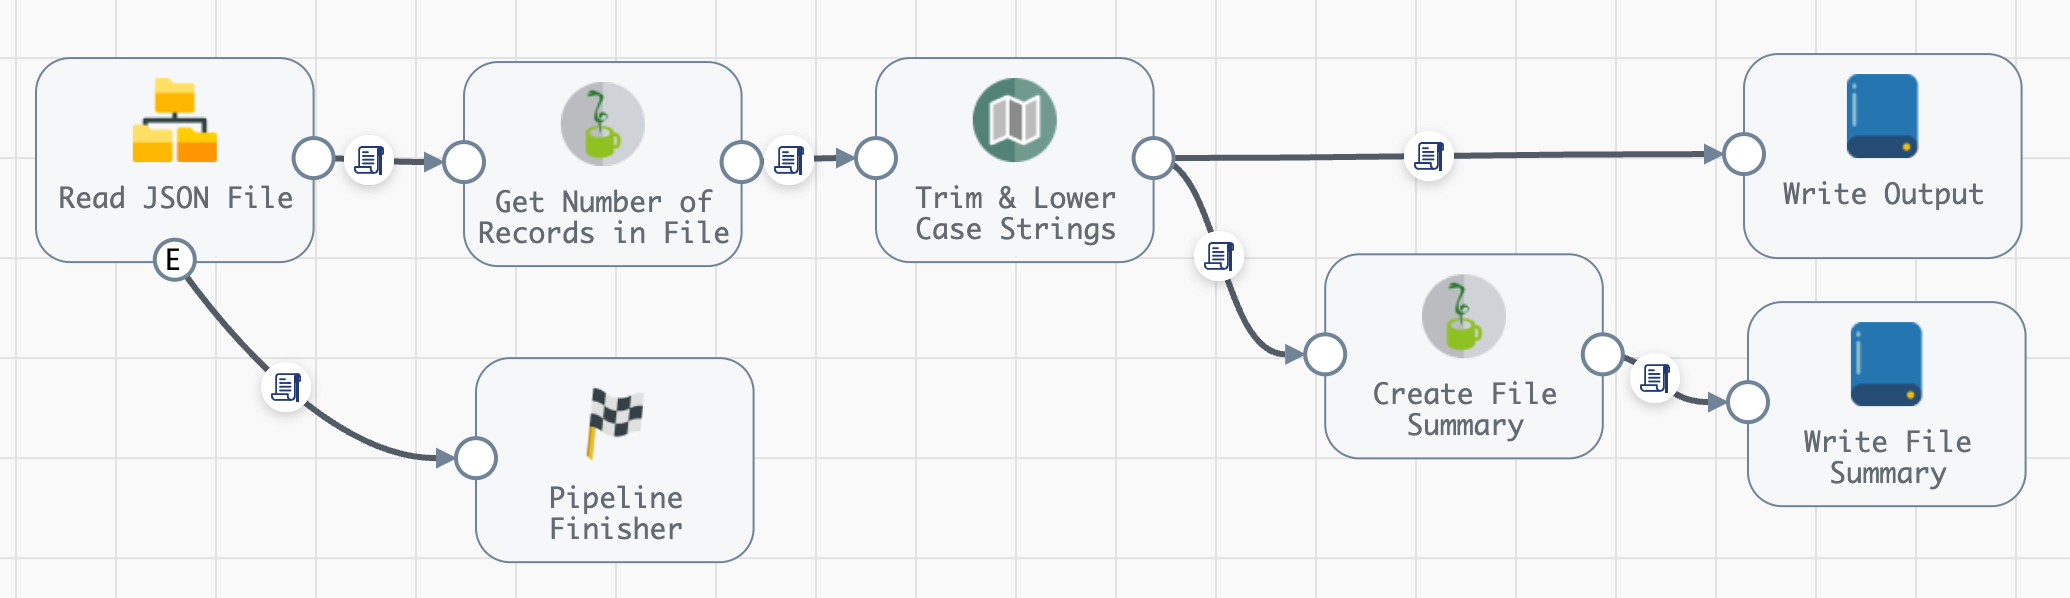
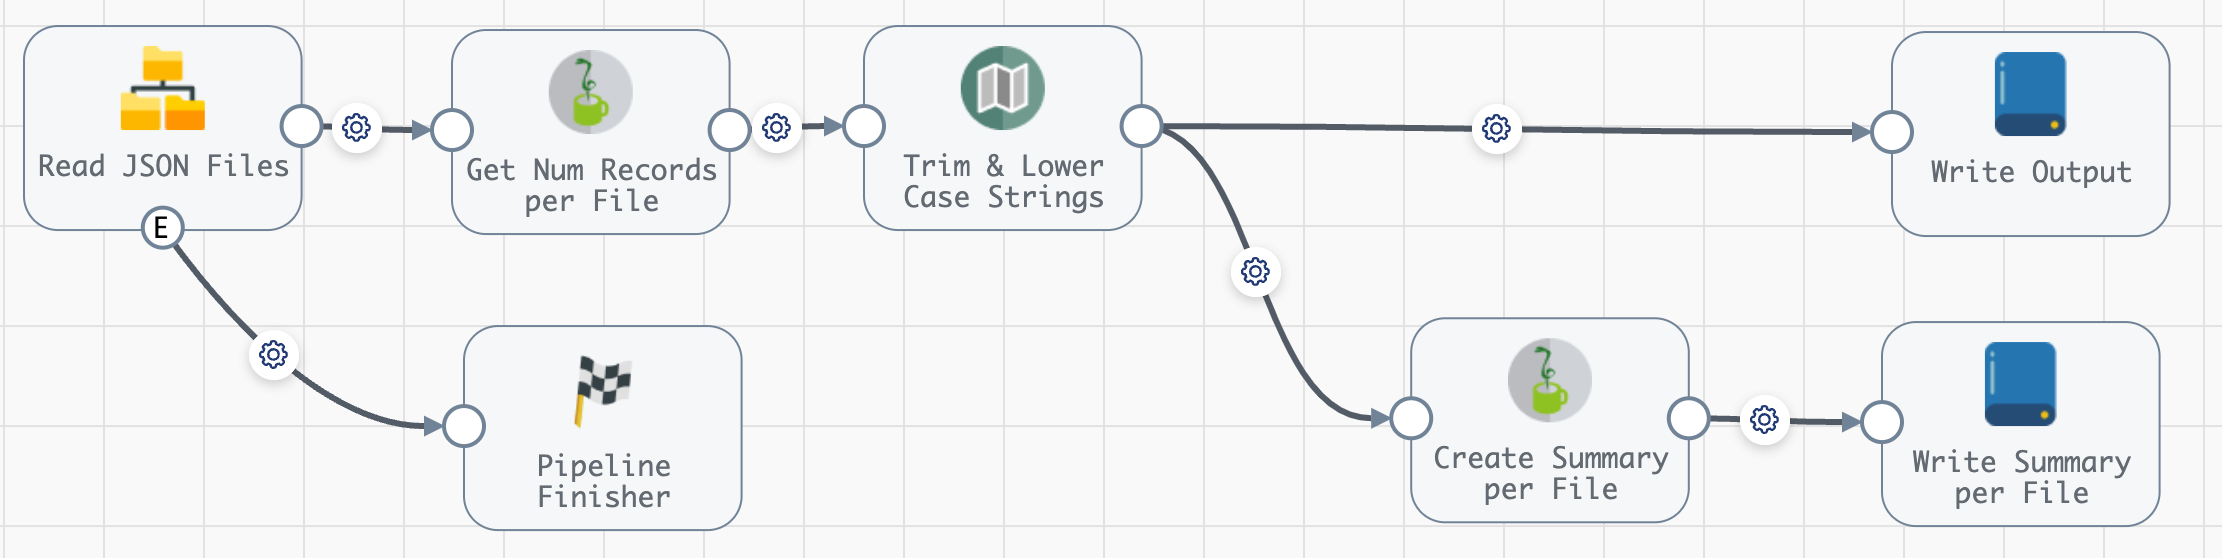
updates

diff --git a/sdc/aggregations-per-input-file/README.md b/sdc/aggregations-per-input-file/README.md
@@ -1,7 +1,7 @@
 ## StreamSets Example - SDC - Aggregations-Per-Input-File
 This project provides an example of how to perform aggregations on input data on a per-file basis using [Data Collector](https://streamsets.com/products/data-collector-engine/) (SDC). 
 
-Typically, one would perform aggregation using [Transformer for Spark](https://streamsets.com/products/transformer-etl-engine/) or [Transformer for Snowflake](https://streamsets.com/products/transformer-snowflake/), but if one wants to compute aggregations using SDC, the technique described can be used in SDC.
+Typically, one would perform aggregation using [Transformer for Spark](https://streamsets.com/products/transformer-etl-engine/) or [Transformer for Snowflake](https://streamsets.com/products/transformer-snowflake/), but if one wants to compute aggregations using SDC, the technique described can be used in SDC without blowing up memory.
 
 Tested in [StreamSets Platform](https://streamsets.com/products/) using SDC v5.6.0
 
@@ -9,7 +9,7 @@ Tested in [StreamSets Platform](https://streamsets.com/products/) using SDC v5.6
 
 It is easy enough to use the "file" record attribute to detect when records from a given file are being read, and to detect when the file attribute has changed. However, this risks missing when the last record of the last file has been read, as there may not be subsequent records in the pipeline to trigger the aggregate calculations for the last file.
 
-This example uses a Jython processor to count the number of lines of each file when processing the first record of each file, which allows the pipeline to know when it is processing the last record for each file, without relying on subsequent records.  Records for any given file can be spread across batches, and the pipeline correctly tracks the state across batches
+This example uses a Jython processor to count the number of lines of each file when processing the first record of each file, which allows the pipeline to know when it is processing the last record for each file, without relying on subsequent records.  Records for any given file can be spread across batches, and the pipeline correctly accumulates the metrics per file across batches
 
 ### The example pipeline
 
@@ -70,7 +70,7 @@ When you run the pipeline with the example data provided you should see:
 
 <img src="images/mapper.png" alt="mapper" width="500"/>
 
-- The <code>Get Number of Records in File</code> stage is a [Jython Evaluator](https://docs.streamsets.com/portal/platform-datacollector/latest/datacollector/UserGuide/Processors/Jython.html#concept_a1h_lkf_lr) that determines how may records are in each input files, and then sets these record attributes <code>is_first_record_in_file</code> and <code>is_last_record_in_file</code>
+- The <code>Get Num Records per File</code> stage is a [Jython Evaluator](https://docs.streamsets.com/portal/platform-datacollector/latest/datacollector/UserGuide/Processors/Jython.html#concept_a1h_lkf_lr) that determines how may records are in each input files, and then sets these record attributes <code>is_first_record_in_file</code> and <code>is_last_record_in_file</code>
 
 - The <code>Create File Summary</code> stage is another Jython Evaluator that aggregates values for each record, and on the last record for each file it creates and writes a file summary record.
 
